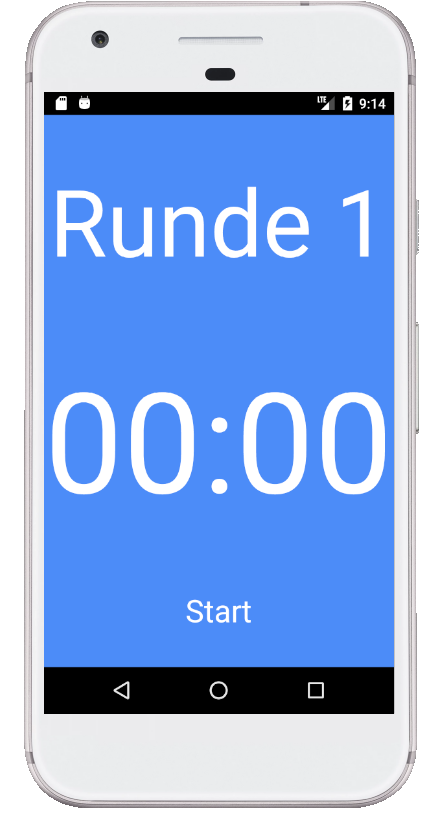
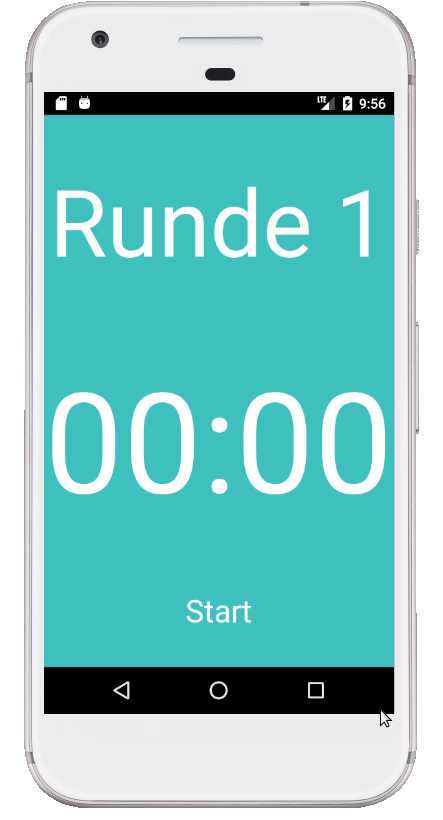
update color schema

diff --git a/www/css/index.css b/www/css/index.css
@@ -6,7 +6,7 @@
 html, body {
 	width: 100%;
 	height: 100%;
-	background: #4c8cf8;
+	background: #40bfbf;
 	color: white;
 	font-family: sans-serif;
 }
